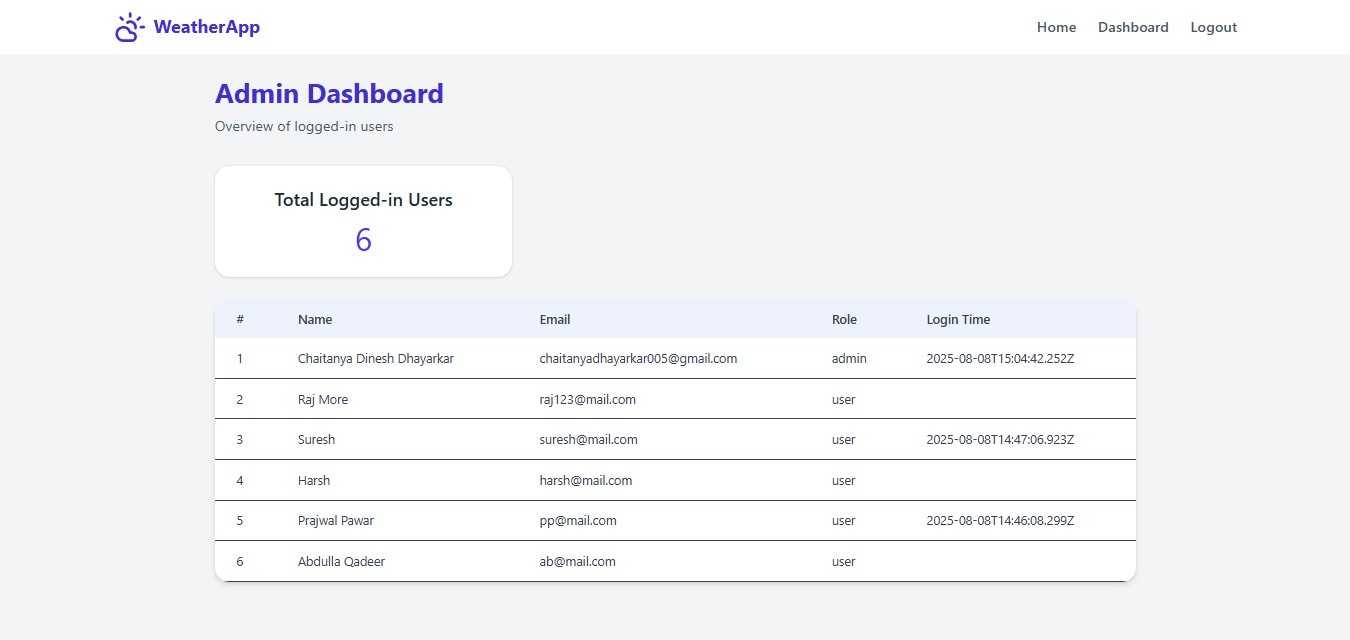
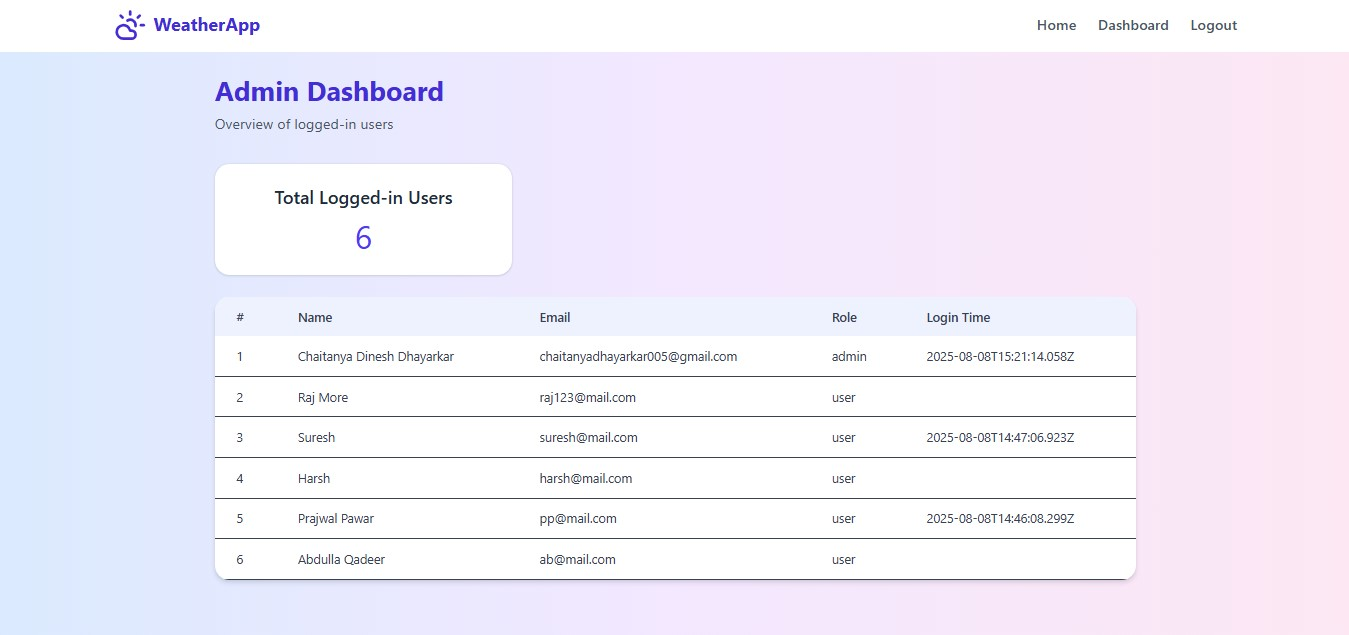
Background color updated

diff --git a/src/pages/WeatherDashboard.jsx b/src/pages/WeatherDashboard.jsx
@@ -111,7 +111,7 @@ const WeatherDashboard = () => {
   );
 
   return (
-    <div className="min-h-screen bg-gradient-to-br from-blue-100 to-indigo-200 p-6">
+    <div className="min-h-screen bg-gradient-to-r from-blue-100 via-purple-100 to-pink-100 px-4 p-6">
       <div className="max-w-4xl mx-auto space-y-6">
         <h1 className="text-3xl font-bold text-center text-indigo-800">🌤 Weather Dashboard</h1>
 

diff --git a/src/pages/AdminDashboard.jsx b/src/pages/AdminDashboard.jsx
@@ -32,7 +32,7 @@ const AdminDashboard = () => {
   }, []);
 
   return (
-    <div className="min-h-screen bg-gray-100 p-6">
+    <div className="min-h-screen bg-gradient-to-r from-blue-100 via-purple-100 to-pink-100 px-4 p-6">
       <div className="max-w-5xl mx-auto">
         {/* Dashboard Header */}
         <div className="mb-8">

diff --git a/src/index.js b/src/index.js
@@ -1,6 +1,5 @@
 import React from 'react';
 import ReactDOM from 'react-dom/client';
-import './index.css';
 import App from './App';
 import reportWebVitals from './reportWebVitals';
 import { BrowserRouter } from 'react-router-dom';
